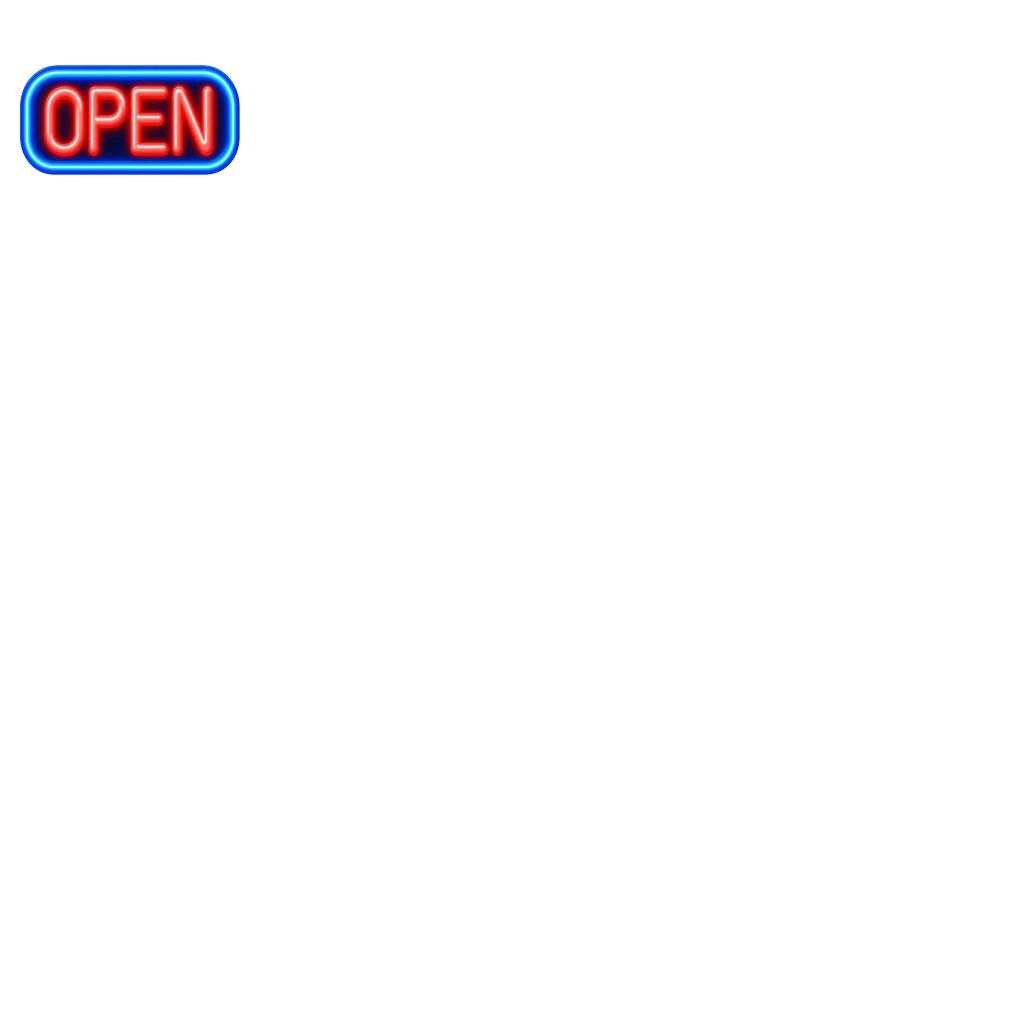
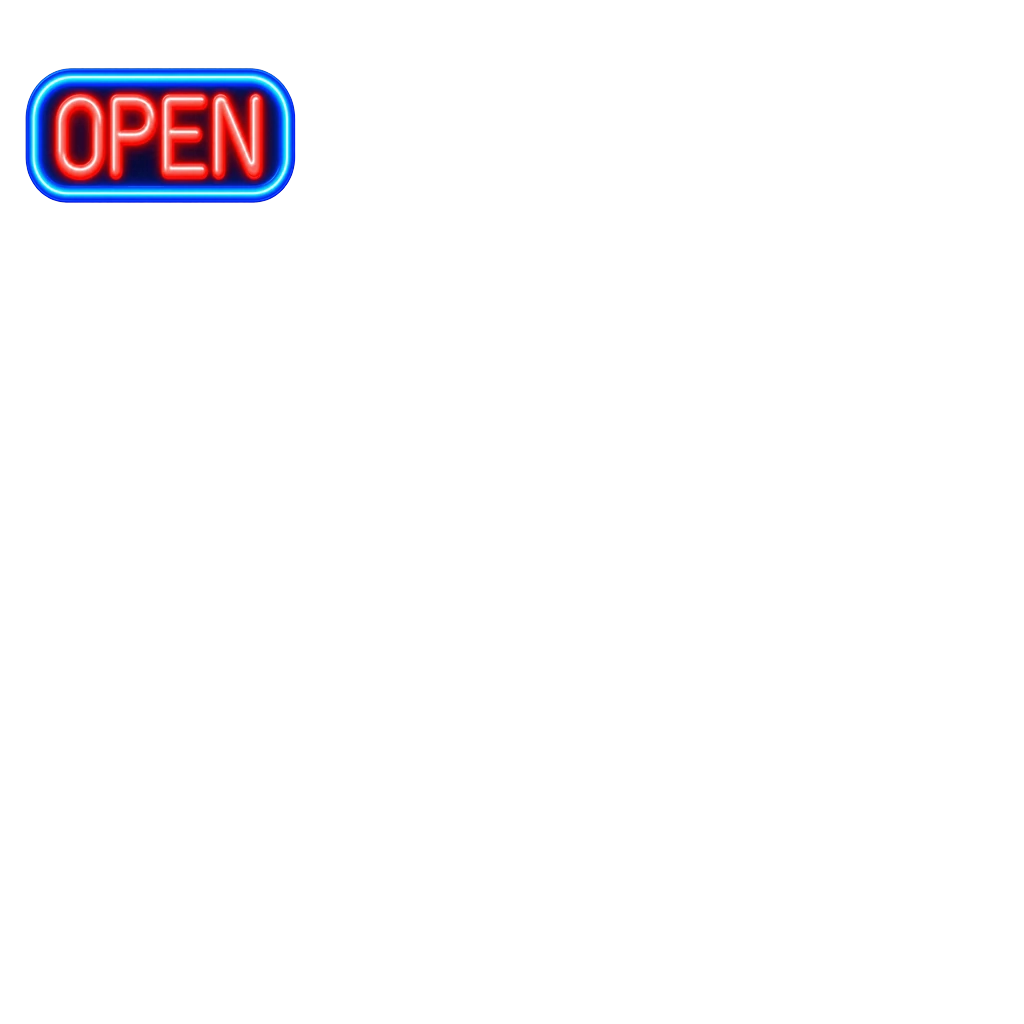
꾸미기: 와이파이를 머리에서 퍼지는 후광 크기로, OPEN 간판은 더 크게
와이파이를 옆에 작게 띄우니 「머리에서 신호가 나간다」가 안 읽혔다.
세 호를 바깥으로 몬 v3 부채꼴을 머리 뒤에 두어 모자 둘레로 퍼지게 한다.
OPEN 간판은 220px 에서 270px 로 키운다.

Changed region(s): [[0.0, 0.0625, 0.3125, 0.2188]]

diff --git a/tools/build_avatar_assets.py b/tools/build_avatar_assets.py
@@ -152,8 +152,10 @@ OVERLAYS = {
 #   로봇청소기 폭 320px, 윗면 가운데를 y=925에 두고 아래 끝을 y=1020 안에 둔다
 #   킥보드    손잡이 폭 340px 은 끝이 허리 옆에 점처럼만 보여 킥보드로 안 읽혔다.
 #             440px 로 키워 손잡이가 가슴 높이에서 몸 양옆으로 나오게 한다. 발판은 y=925
-#   OPEN      폭 220px·높이 110px, 중심 (130, 120)으로 옮겨 모든 모자의 왼쪽에 보이게 한다
-#   와이파이  폭 200px·높이 143px, 중심 (130, 130)으로 옮겨 세 줄과 점이 눌리지 않게 한다
+#   OPEN      폭 270px, 중심 (160, 135). 머리 왼쪽 위, 삿갓 챙 밖에 크게 띄운다
+#             (앱은 후광을 1.2배 키워 60px 올려 그린다 — halo_spin.dart)
+#   와이파이  v3: 머리에서 신호가 나가도록 후광 크기 부채꼴. 바깥 호 반지름(586)을 330px,
+#             부채꼴 아래 점을 (510, 400)에 두면 점은 머리 뒤, 세 호가 머리·모자 둘레로 보인다
 #   로딩      바깥 지름 666px로 맞춰 비니 둘레에 12점이 드러나게 한다
 #   LP        바깥 지름 666px, 중심을 눈 가운데에 두어 가장자리 홈과 스티커가 보이게 한다
 #   디스코볼  머리 위 100px 에 넣으면 너무 작고 모자에 가렸다. 체인 위 끝을 캔버스
@@ -199,8 +201,8 @@ PLACED = {
     "seat_bathstool": ("body", 260 / 922, (627, 504), (512, 925), ()),
     "seat_robovac": ("body", 320 / 899, (626.5, 602), (512, 925), ()),
     "seat_kickboard": ("body", 440 / 780, (627, 970), (512, 925), ()),
-    "halo_open": ("head", 220 / 1000, (627, 627), (130, 120), ()),
-    "halo_wifi": ("head", 200 / 1000, (627, 627), (130, 130), ()),
+    "halo_open": ("head", 270 / 1000, (627, 627), (160, 135), ()),
+    "halo_wifi": ("head", 330 / 586, (627, 949), (510, 400), ()),
     "halo_loading": ("head", 666 / 890, (627, 627), (510, 356), ()),
     "halo_lp": ("head", 666 / 1000, (627, 627), (510, 356), ()),
     "halo_discoball": ("head", 190 / 586, (626.5, 334), (860, 4), ()),

diff --git a/docs/커스터마이징_파츠_발주서.md b/docs/커스터마이징_파츠_발주서.md
@@ -192,7 +192,7 @@
 | id | 이름 | | `{설명}` | 자리·크기 | 공덕 |
 |---|---|---|---|---|---|
 | `halo_open` | OPEN 간판 | 🤪 | 둥근 모서리 사각형 네온 간판. 빨간 네온 글자 **「OPEN」**, 파란 네온 테두리. **가로:세로 약 2:1** | 머리 왼쪽 위 빈자리(x 20~240, y 10~260)에 띄운다. 폭 약 220 | 1000 |
-| `halo_wifi` | 와이파이 | 🤪 | 하늘색으로 빛나는 와이파이 부채꼴 신호 세 줄과 아래 점 하나. 흔한 와이파이 아이콘 비율(**가로:세로 약 1.4:1**) | 머리 왼쪽 위 빈자리(x 20~240, y 10~260)에 띄운다. 폭 약 200 | 800 |
+| `halo_wifi` | 와이파이 | 🤪 | 하늘색으로 빛나는 굵은 와이파이 부채꼴 세 줄과 아래 점. **후광 크기**로, 세 호의 반지름을 바깥쪽으로 몰아(약 0.67 : 0.83 : 1) 안쪽 호도 머리 밖에 오게 | 부채꼴 아래 점을 머리 뒤 (510, 400)에, 바깥 호 반지름 약 330. 머리에서 신호가 나가는 모습 | 800 |
 | `halo_loading` | 로딩 중 | 🤪 | 큰 원 둘레에 동그란 점 12개. 한쪽은 진한 회색, 돌아가며 점점 옅어져 흰색 | 원 중심 → `(510, 356)`, 지금 후광과 같은 크기(점들이 바깥 지름 666 안쪽 둘레에) | 1000 |
 | `halo_lp` | LP 후광 | 😎 | 검은 LP 레코드판, 동심원 홈. 가운데 주황 라벨. **가장자리 가까이에 작은 흰 연꽃 스티커 하나.** 반사광 없음 | 중심 → `(510, 356)`, 지름 약 666(지금 후광 바깥 지름) | 1300 |
 | `halo_discoball` | 디스코볼 | 😎 | 은빛 미러볼, 위로 짧은 은색 체인. 둘레에 작은 반짝임 몇 개 | 체인 위 끝을 캔버스 위(y 4)에 걸고 머리 오른쪽 위(x 860)에 매단다. 체인 포함 높이 약 190 | 1200 |
@@ -202,7 +202,8 @@
 - 움직임은 풍선껌(`bubble_gum_motion.dart`)처럼 후광 중심 `(510, 356)`을 축으로 돌리는 코드가 따로 필요하다. 그림을 받은 뒤 붙인다.
 - 링 모양(로딩·LP·네온)은 지금 후광처럼 안쪽 지름이 비니 폭(약 470)보다 넓어야 모자를 써도 머리 둘레로 보인다.
 - 처음에는 OPEN·와이파이·디스코볼을 머리 위 약 100px(민머리 꼭대기 y 106 ~ 캔버스 위 끝)에 넣으라고 했다. 그러면 높이 50px 안팎으로 작아지고(앱에서 10dp 남짓) 모자에 가린다. **머리 옆 위 빈자리**로 옮겼다. 왼쪽 위 x 20~240 · y 10~260, 오른쪽 위는 디스코볼(x 860). 삿갓 챙이 x 231~792 라 그 밖이면 어느 모자에도 안 가린다.
-- 처음 받은 OPEN(가로:세로 6:1)·와이파이(4:1)는 너무 납작해 그 자리에서 작게만 보였다. 비율을 정해 `_v2`로 다시 받는다.
+- 처음 받은 OPEN(가로:세로 6:1)·와이파이(4:1)는 너무 납작해 그 자리에서 작게만 보였다. 비율을 정해 `_v2`로 다시 받았다.
+- 와이파이는 옆에 작게 띄우니 「머리에서 신호가 나간다」는 농담이 사라져, 후광 크기 부채꼴 `_v3`로 바꿨다. 안쪽 호 비율을 0.78로 요구했더니 세 번 다 못 맞췄는데(0.59~0.67), 0.67 짜리로도 세 호가 모두 머리 둘레로 보였다.
 
 ---
 
